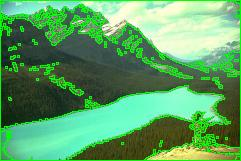
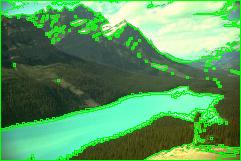
ready for presentation

diff --git a/DumbAnt.java b/DumbAnt.java
@@ -21,21 +21,20 @@ public class DumbAnt extends Ant{
             //dissimilarity += Distance.Euclidean(this.feature_vector, pixel.get_feature_vector());//ant diff, aka edge diff
             double neighbours = 0.0;
             double highest_edge = 0.0;
+            boolean has_neighbours = false;
             for (Pixel neighbour : image.get_neighbours(pixel.get_coords())){
-
-                if (neighbour.segment !=this.segment){
-                    neighbours += 2; //16 ganger høyere enn 1/8
-                }
-                else{
+                if (neighbour.segment ==this.segment){
+                    has_neighbours = true; //
                     if (Distance.Euclidean(neighbour.get_feature_vector(), pixel.get_feature_vector()) > highest_edge){
                         highest_edge = Distance.Euclidean(neighbour.get_feature_vector(), pixel.get_feature_vector());
                     }
                 }
+            
             }
             dissimilarity += highest_edge;
-            dissimilarity += neighbours;
+            dissimilarity += !has_neighbours? 16.0 : 0.0; //2 for alle som ikke er nabo
             
-            if (dissimilarity< Parameters.similarity_index){//er flere parametere så justerer
+            if (dissimilarity< Parameters.similarity_index*1.5){//er flere parametere så justerer
                 pixel.get_ant().add_to_colony(this.segment);
             }
             else{
